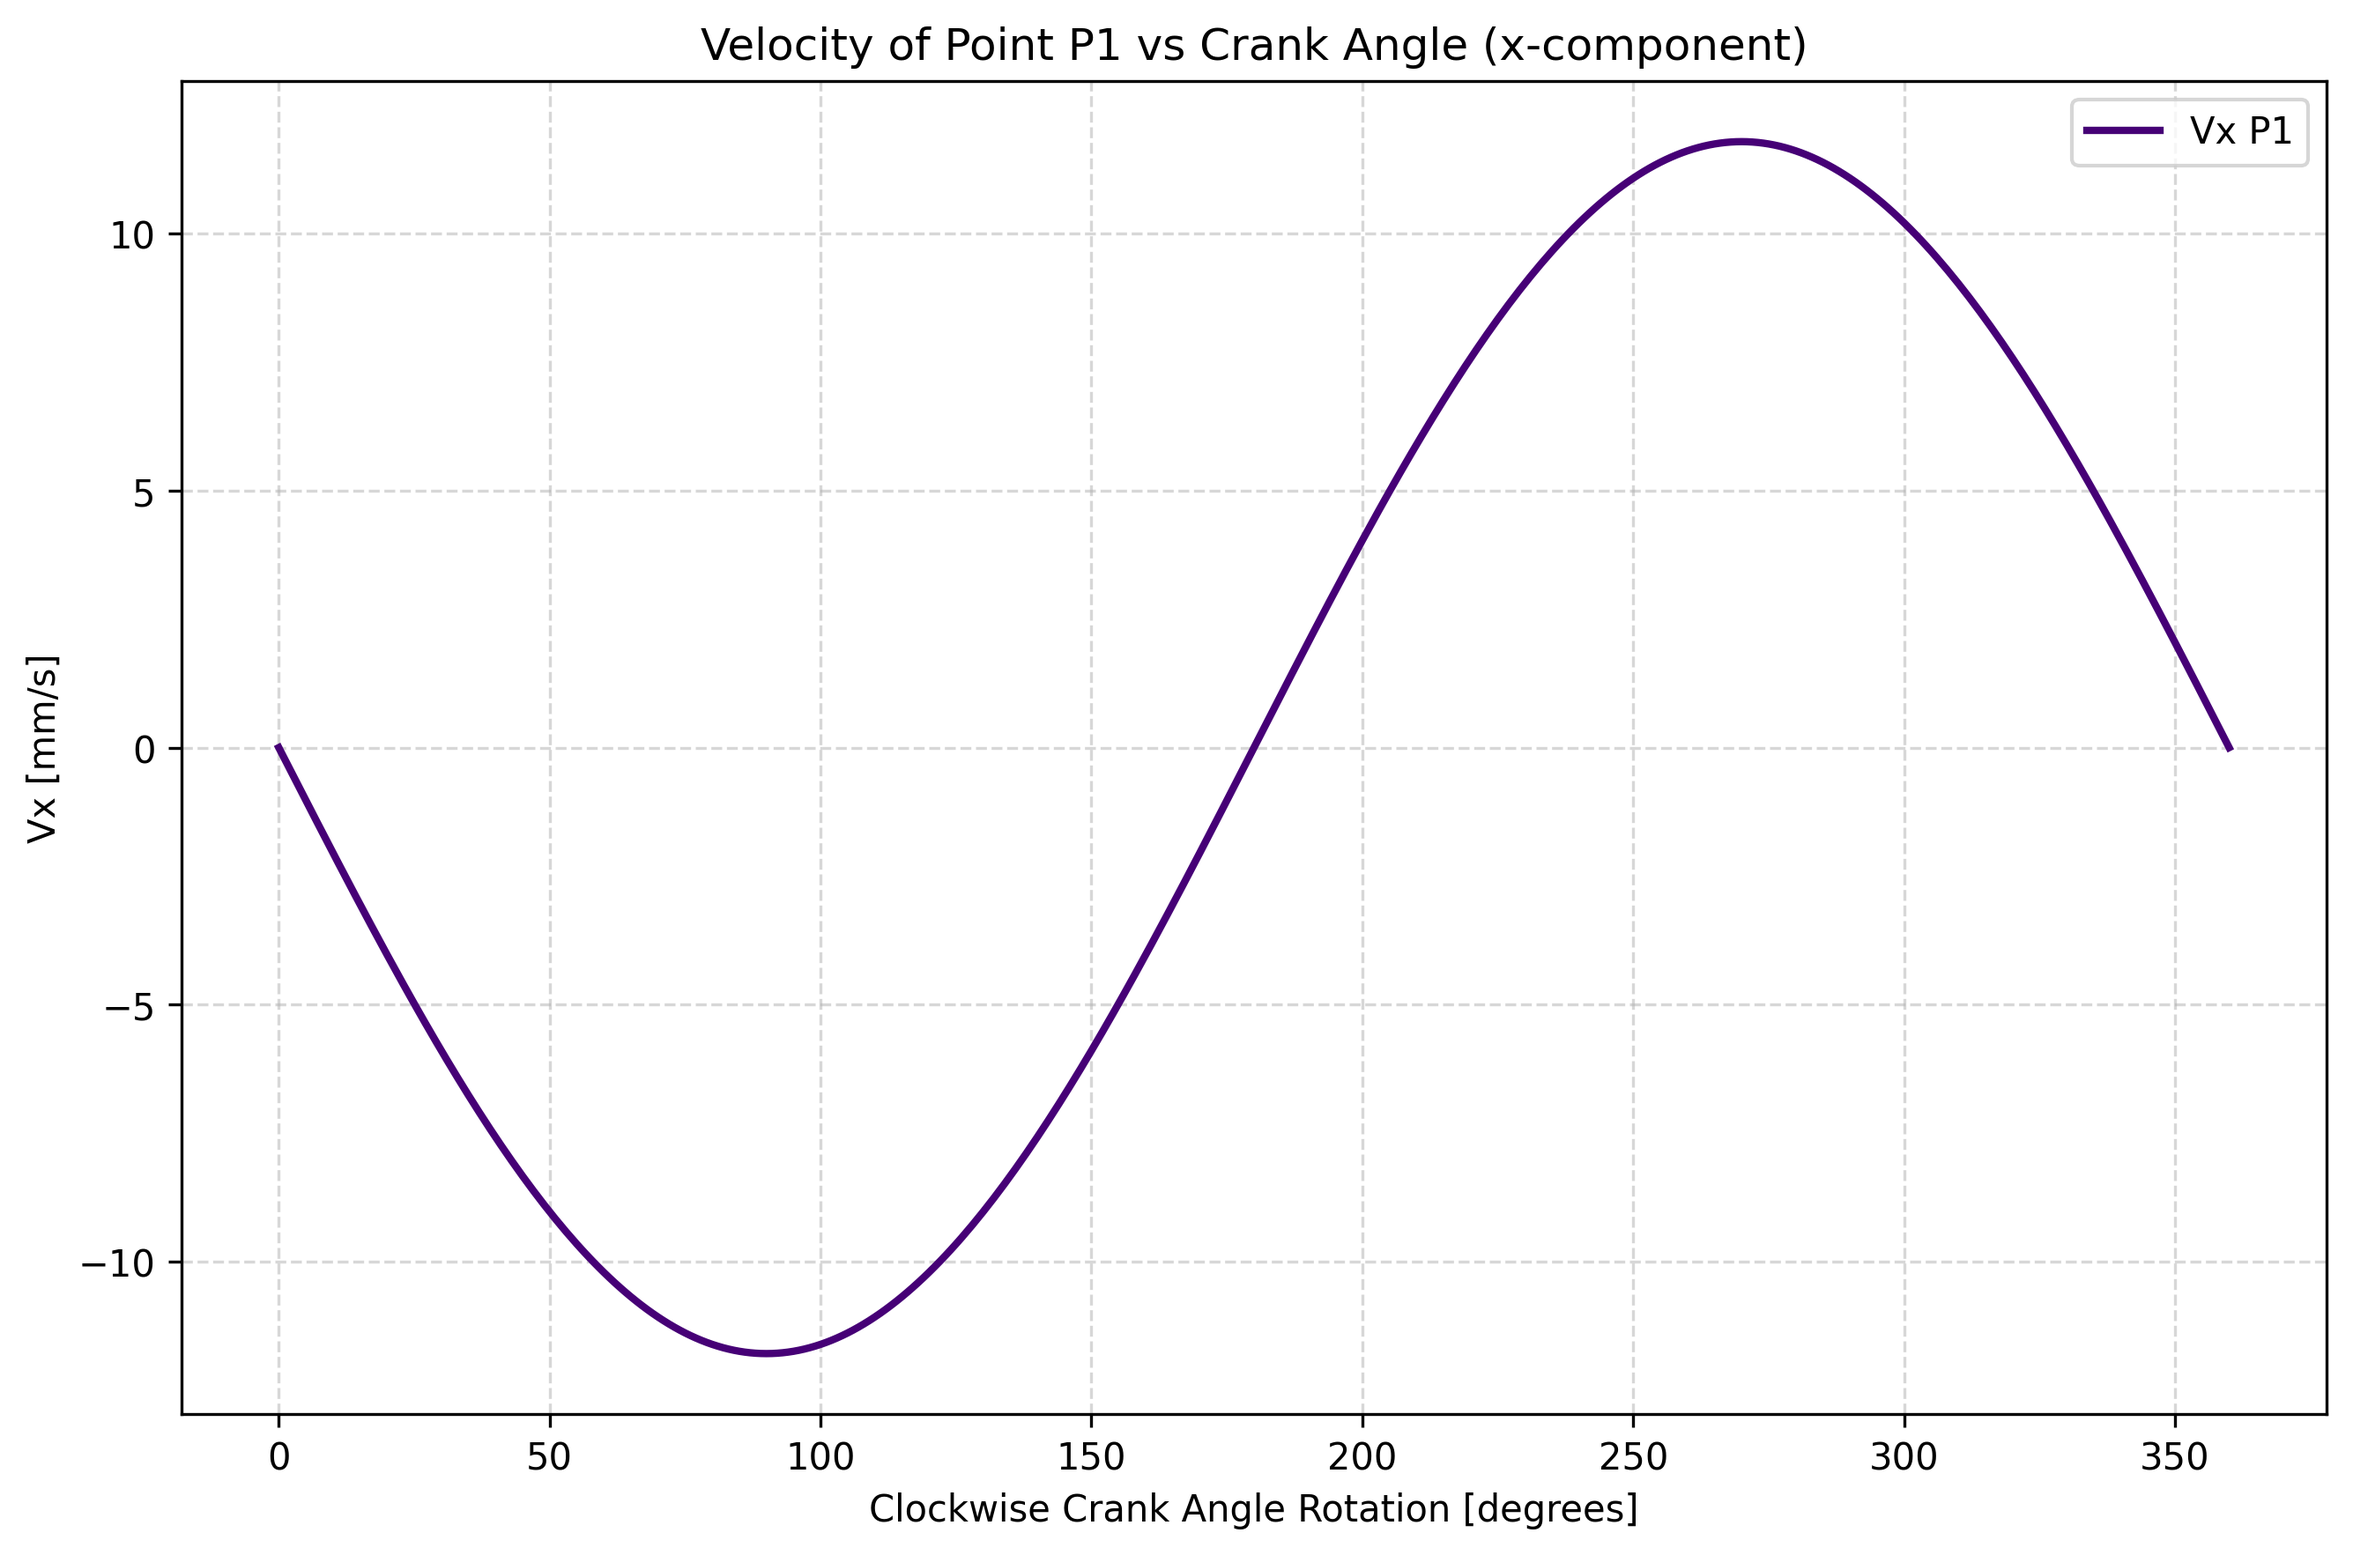
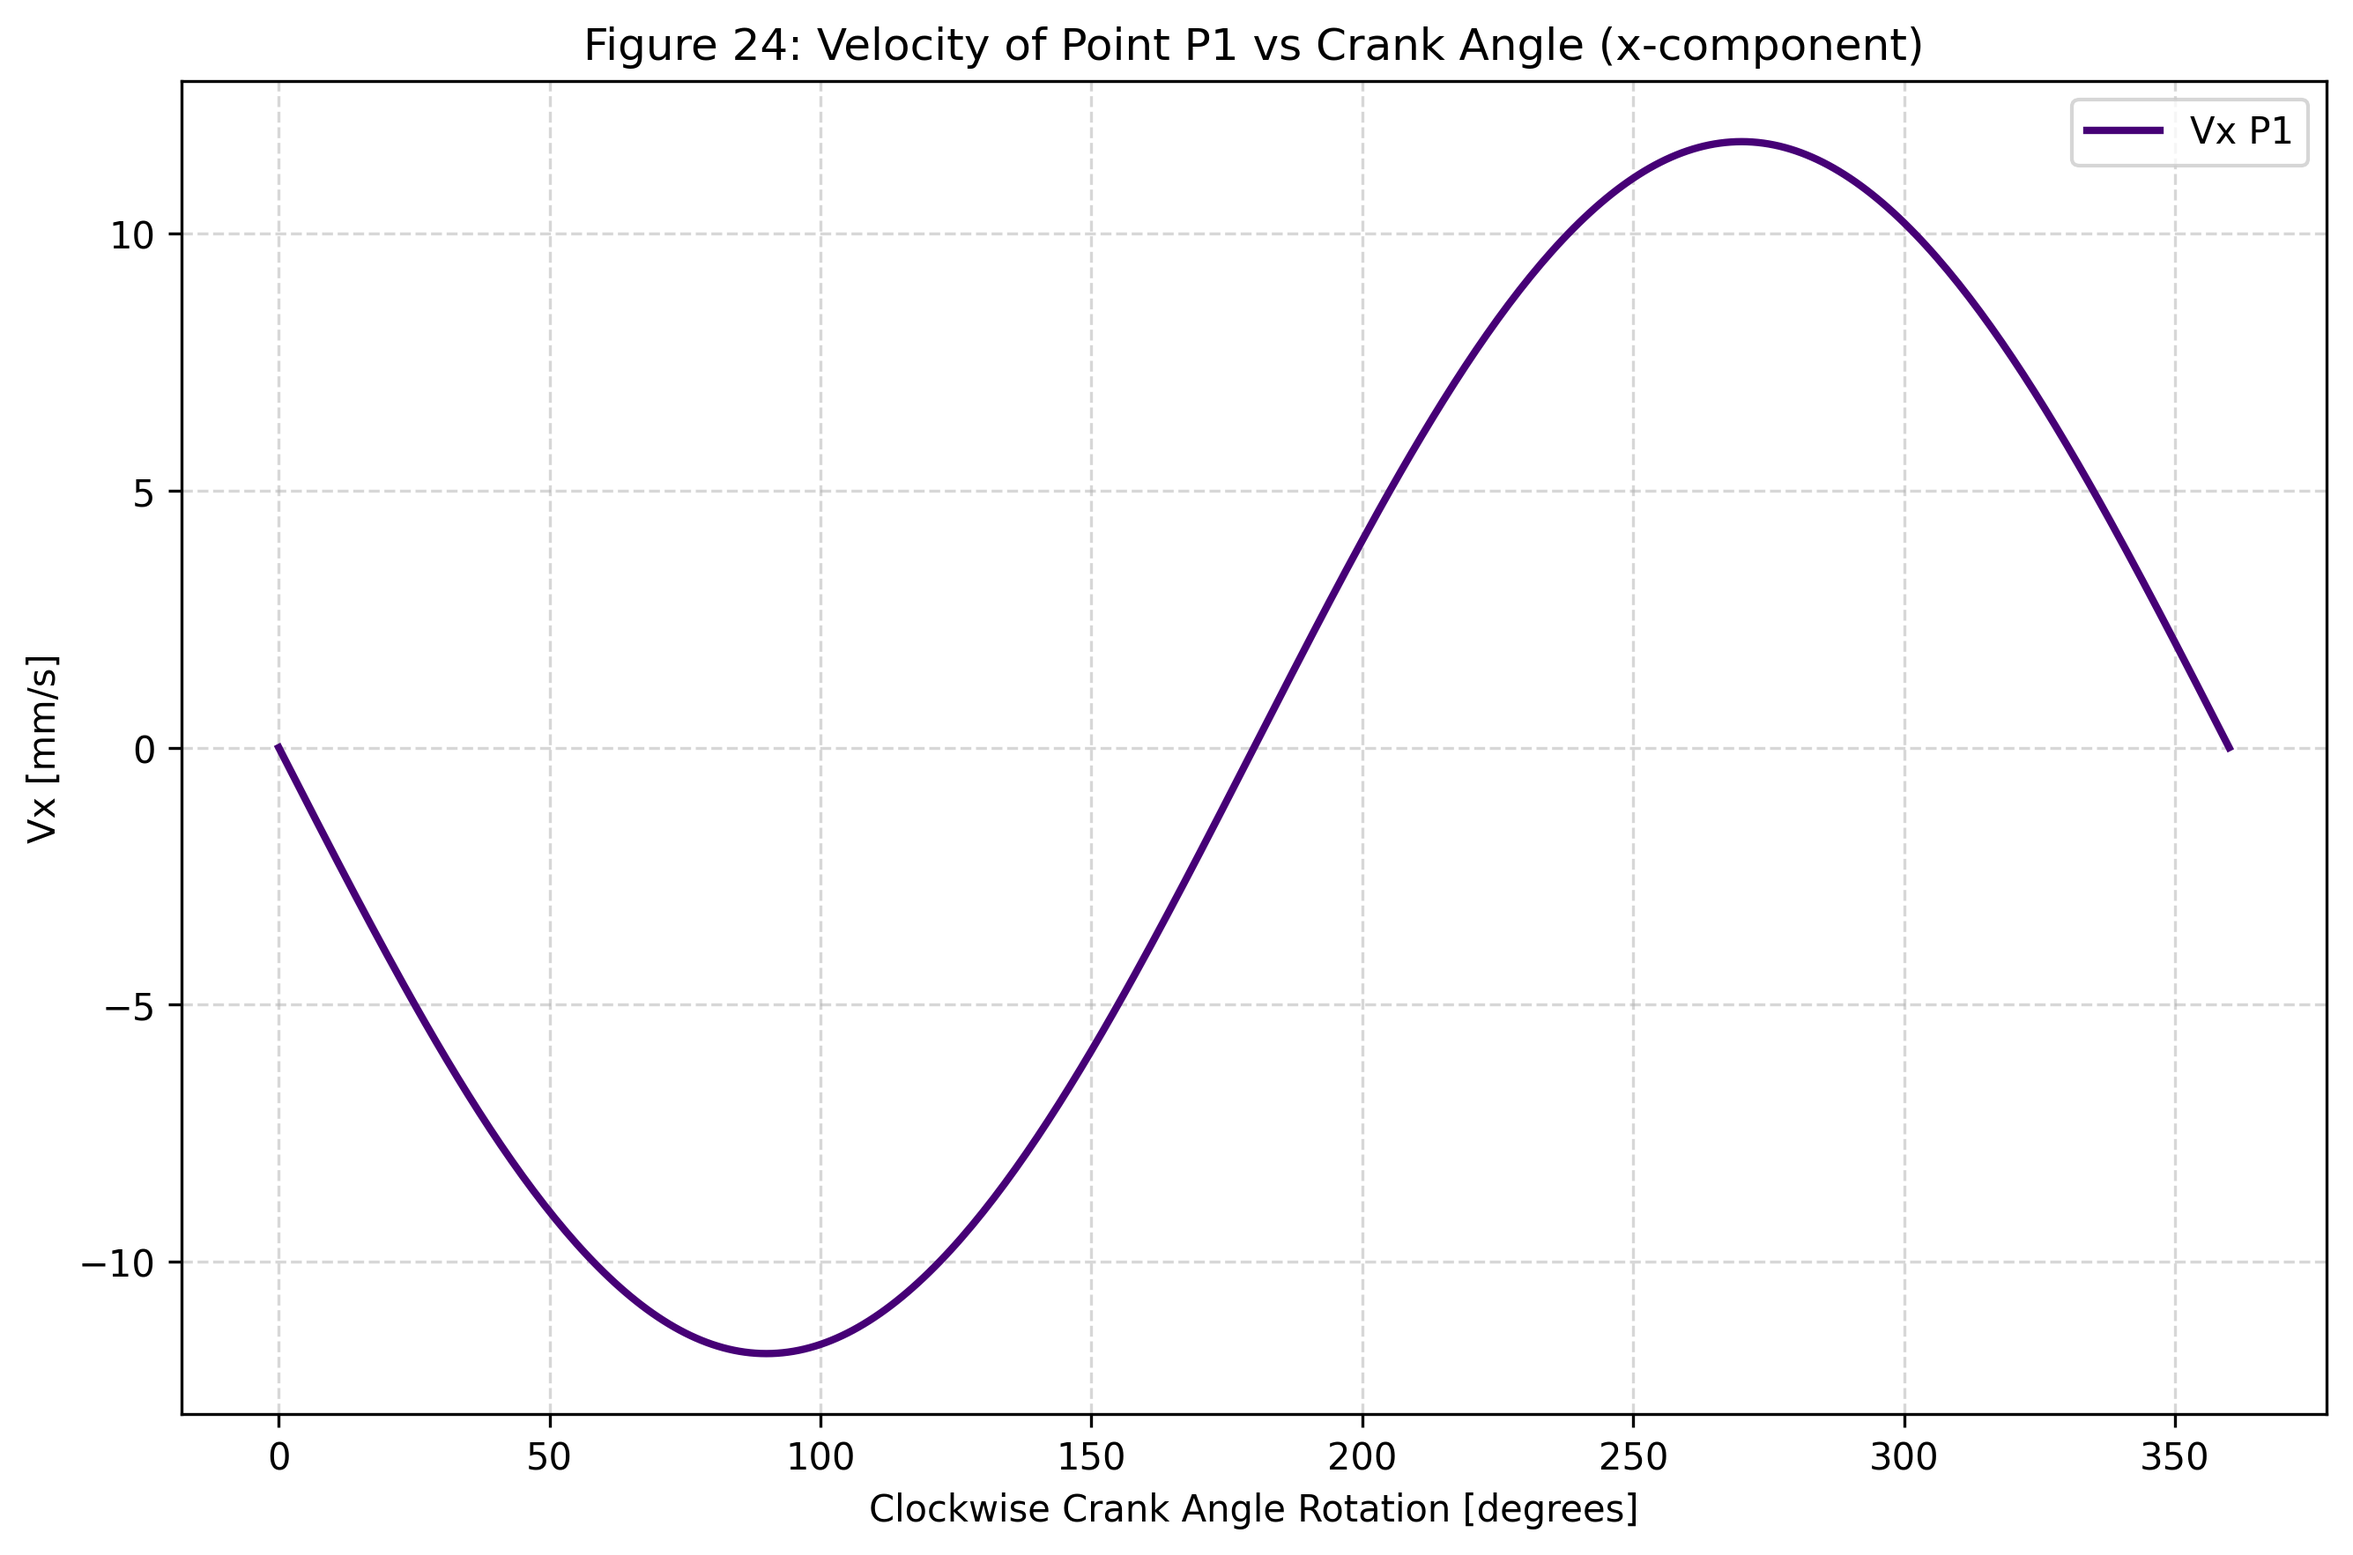
Updated figure name to include number

Changed region(s): [[0.2487, 0.0, 0.8082, 0.0623]]

diff --git a/lib/_Velocity.py b/lib/_Velocity.py
@@ -86,9 +86,9 @@ def v1_figures(figure_path : list, figure_names : list, array_V1 : np.ndarray, c
         crank_angle_plot (np.ndarray): Array of crank angles for plotting.
     """
     # ! Velocity Figures for Point P1 !
-    v1_x_figure = _plot.plot_velocity_figure(crank_angle_plot, array_V1, 0, "P1", "Velocity of Point P1 vs Crank Angle (x-component)")
-    v1_y_figure = _plot.plot_velocity_figure(crank_angle_plot, array_V1, 1, "P1", "Velocity of Point P1 vs Crank Angle (y-component)")
-    v1_speed_figure = _plot.plot_speed_figure(crank_angle_plot, array_V1, "P1", "Speed of Point P1 vs Crank Angle")
+    v1_x_figure = _plot.plot_velocity_figure(crank_angle_plot, array_V1, 0, "P1", "Figure 24: Velocity of Point P1 vs Crank Angle (x-component)")
+    v1_y_figure = _plot.plot_velocity_figure(crank_angle_plot, array_V1, 1, "P1", "Figure 25: Velocity of Point P1 vs Crank Angle (y-component)")
+    v1_speed_figure = _plot.plot_speed_figure(crank_angle_plot, array_V1, "P1", "Figure 26: Speed of Point P1 vs Crank Angle")
     
     
     # Append V1 Figures to Figure Path
@@ -110,9 +110,9 @@ def v2_figures(figure_path : list, figure_names : list, array_V2 : np.ndarray, c
         crank_angle_plot (np.ndarray): Array of crank angles for plotting.
     """
     # ! Velocity Figures for Point P2 !
-    v2_x_figure = _plot.plot_velocity_figure(crank_angle_plot, array_V2, 0, "P2", "Velocity of Point P2 vs Crank Angle (x-component)")
-    v2_y_figure = _plot.plot_velocity_figure(crank_angle_plot, array_V2, 1, "P2", "Velocity of Point P2 vs Crank Angle (y-component)")
-    v2_speed_figure = _plot.plot_speed_figure(crank_angle_plot, array_V2, "P2", "Speed of Point P2 vs Crank Angle")
+    v2_x_figure = _plot.plot_velocity_figure(crank_angle_plot, array_V2, 0, "P2", "Figure 27: Velocity of Point P2 vs Crank Angle (x-component)")
+    v2_y_figure = _plot.plot_velocity_figure(crank_angle_plot, array_V2, 1, "P2", "Figure 28: Velocity of Point P2 vs Crank Angle (y-component)")
+    v2_speed_figure = _plot.plot_speed_figure(crank_angle_plot, array_V2, "P2", "Figure 29: Speed of Point P2 vs Crank Angle")
     
     
     # Append V2 Figures to Figure Path
@@ -133,7 +133,7 @@ def omegaB_figures(figure_path : list, figure_names : list, array_omegaB : np.nd
         crank_angle_plot (np.ndarray): Array of crank angles for plotting.
     """
     # ! Angular Velocity Figures for Link B !
-    omegaB_figure = _plot.plot_angular_velocity_figure(crank_angle_plot, array_omegaB, "B", "Angular Velocity of Link B vs Crank Angle")
+    omegaB_figure = _plot.plot_angular_velocity_figure(crank_angle_plot, array_omegaB, "B", "Figure 30: Angular Velocity of Link B vs Crank Angle")
     
     # Append OmegaB Figure to Figure Path
     figure_path.extend([omegaB_figure])
@@ -153,7 +153,7 @@ def omegaJ_figures(figure_path : list, figure_names : list, array_omegaJ : np.nd
         crank_angle_plot (np.ndarray): Array of crank angles for plotting.
     """
     # ! Angular Velocity Figures for Link J !
-    omegaJ_figure = _plot.plot_angular_velocity_figure(crank_angle_plot, array_omegaJ, "J", "Angular Velocity of Link J vs Crank Angle")
+    omegaJ_figure = _plot.plot_angular_velocity_figure(crank_angle_plot, array_omegaJ, "J", "Figure 31: Angular Velocity of Link J vs Crank Angle")
     
     # Append OmegaJ Figure to Figure Path
     figure_path.extend([omegaJ_figure])
